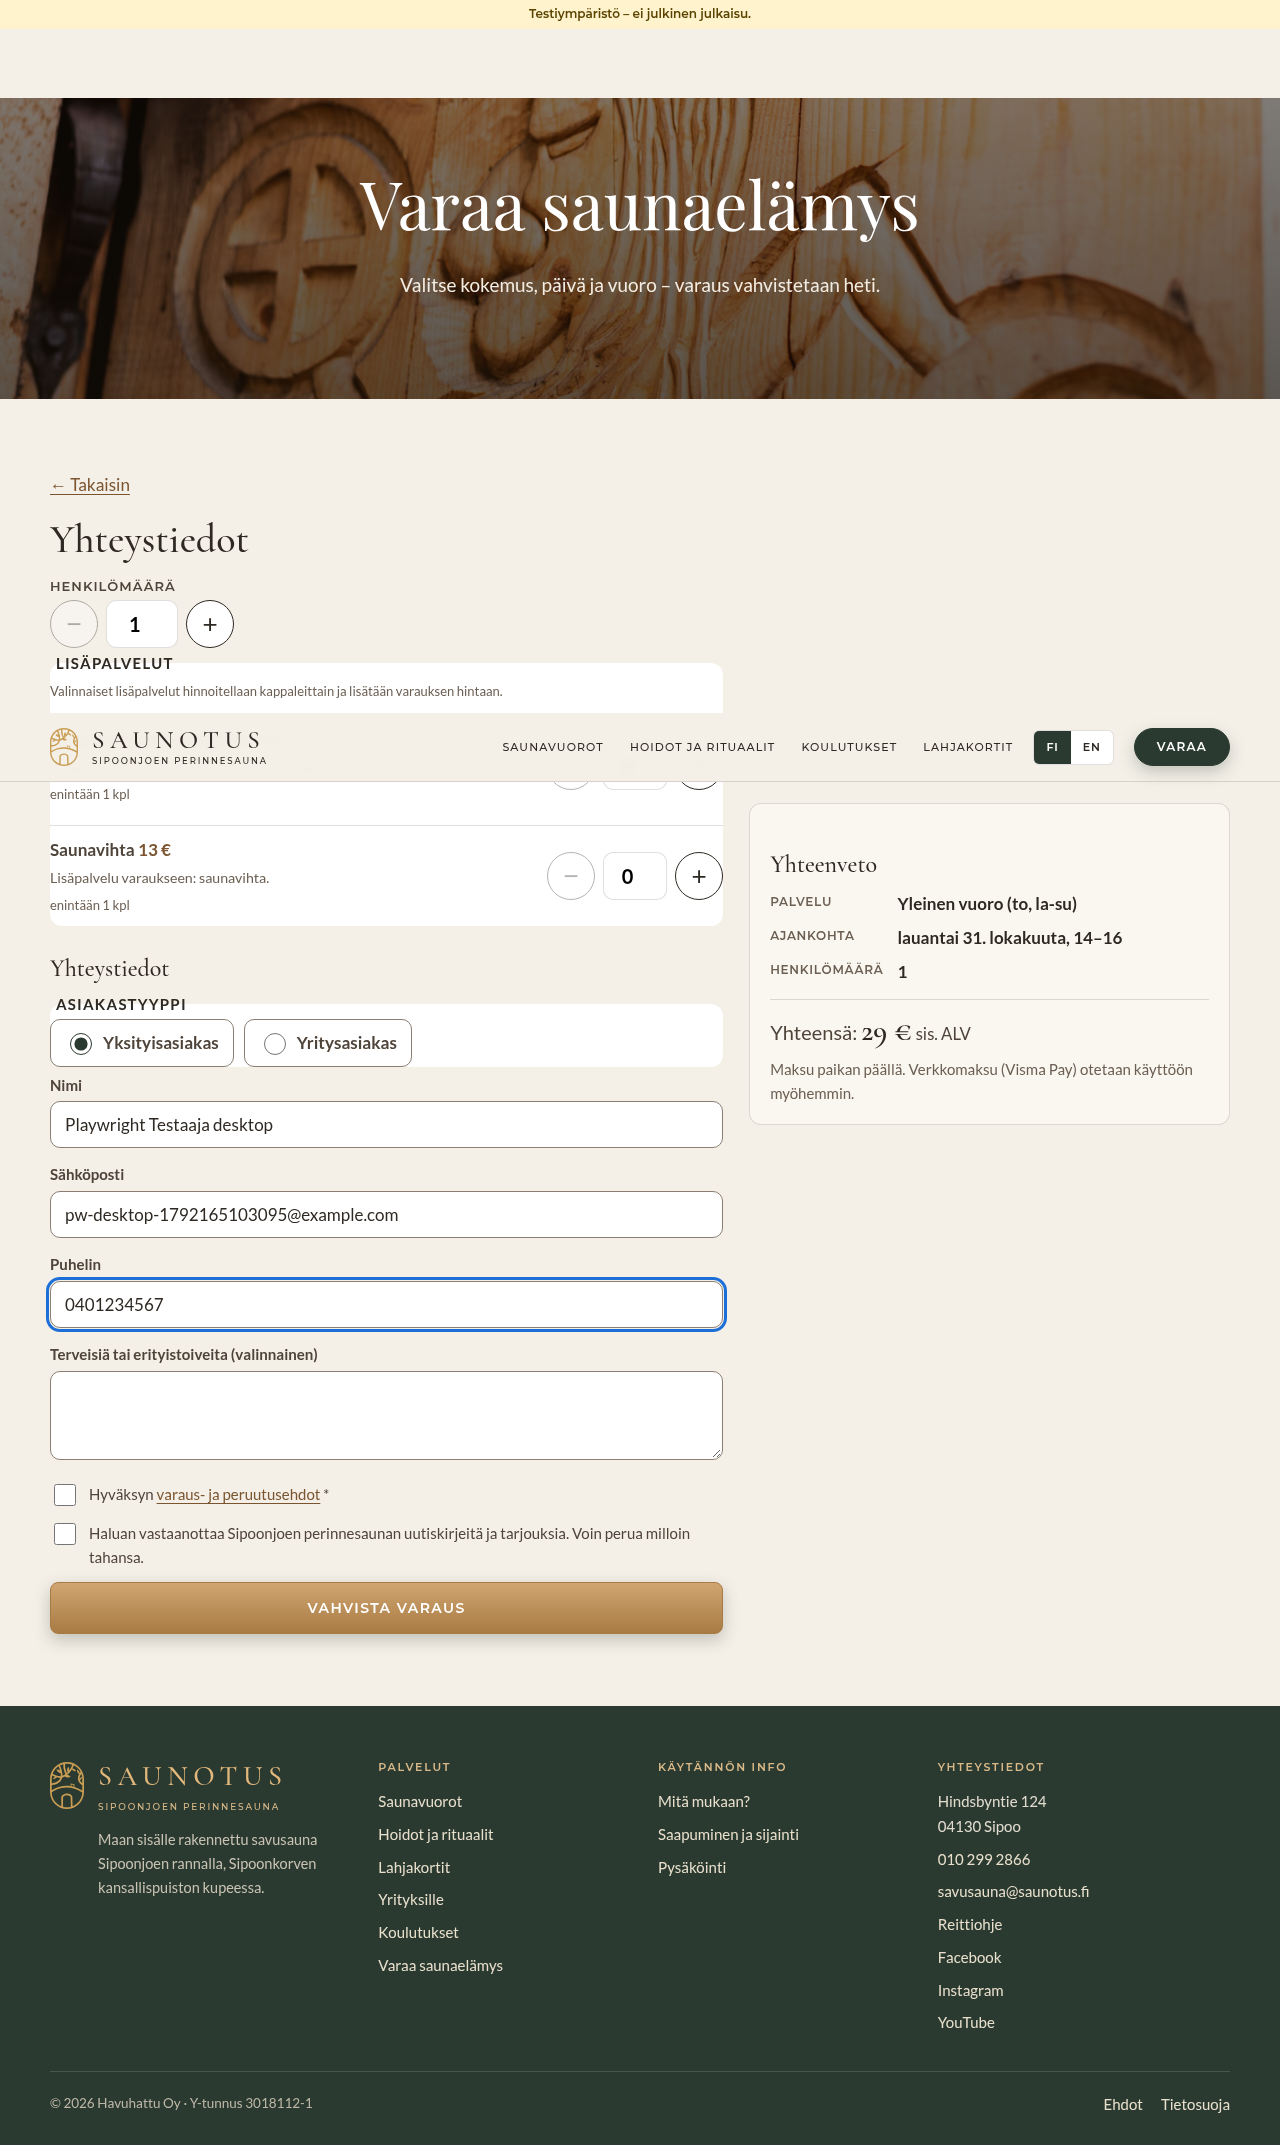
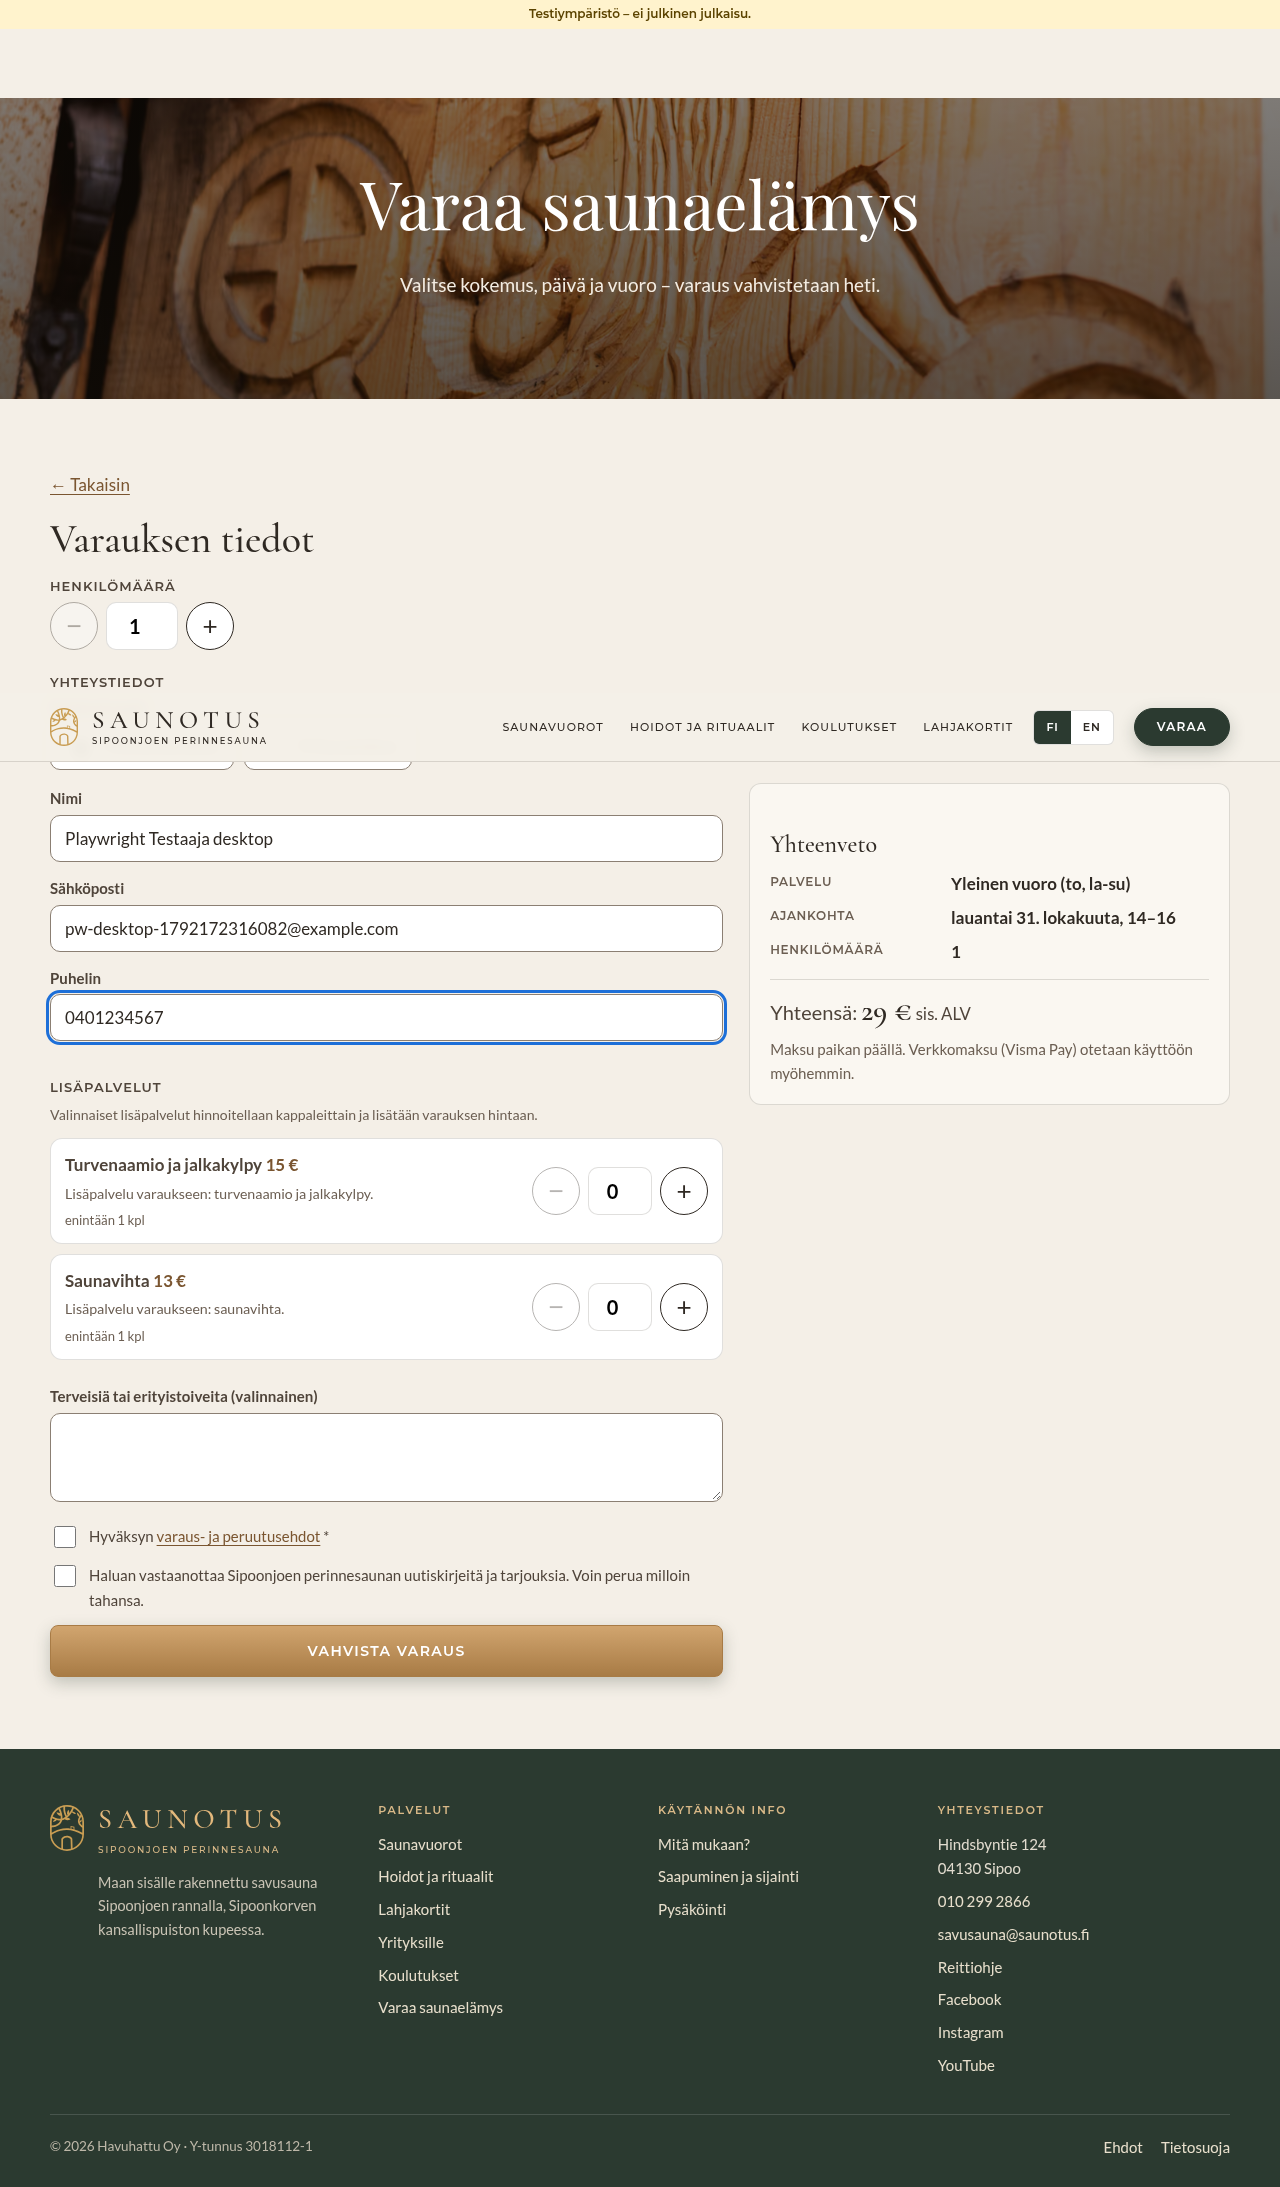
Kauppa: lisäpalveluiden asettelu ja osioiden järjestys mobiilissa

diff --git a/booking/shop/src/shop.css b/booking/shop/src/shop.css
@@ -59,8 +59,8 @@ button.bk-cell:hover{filter:brightness(.97)}
 /* lomake */
 .bk-checkout{display:grid;gap:26px;align-items:start}
 @media(min-width:900px){.bk-checkout{grid-template-columns:minmax(0,1.4fr) minmax(280px,1fr)}.bk-aside{position:sticky;top:90px}}
-.bk-form fieldset{border:0;margin:0 0 6px;padding:0}
-.bk-form legend{font:600 13px var(--label);text-transform:uppercase;letter-spacing:.08em;margin-bottom:6px;padding:0}
+.bk-form fieldset{border:0;margin:0 0 24px;padding:0;min-width:0}
+.bk-form legend{font:600 13px var(--label);text-transform:uppercase;letter-spacing:.08em;margin-bottom:8px;padding:0}
 .bk-stepper{display:inline-flex;align-items:center;gap:8px}
 .bk-step{width:48px;height:48px;border-radius:50%;border:1px solid var(--ink);background:#fff;font-size:26px;cursor:pointer;color:var(--ink)}
 .bk-step:disabled{opacity:.35;cursor:default}
@@ -75,8 +75,8 @@ button.bk-cell:hover{filter:brightness(.97)}
 .bk-form .btn:disabled{opacity:.6;cursor:default}
 .bk-aside{background:var(--card);border:1px solid var(--line);border-radius:var(--r);padding:18px 20px}
 .bk-aside h3{margin-top:0}
-.bk-sum{display:grid;grid-template-columns:auto 1fr;gap:6px 14px;margin:0 0 12px}
-.bk-sum dt{font:600 12px var(--label);text-transform:uppercase;letter-spacing:.06em;color:var(--muted);padding-top:4px}
+.bk-sum{display:grid;grid-template-columns:minmax(80px,38%) minmax(0,1fr);gap:6px 14px;margin:0 0 12px}
+.bk-sum dt{overflow-wrap:anywhere;font:600 12px var(--label);text-transform:uppercase;letter-spacing:.06em;color:var(--muted);padding-top:4px}
 .bk-sum dd{margin:0;font-weight:700;color:var(--ink)}
 .bk-totalrow{font-size:20px;border-top:1px solid var(--line);padding-top:12px;margin:0 0 8px}
 .bk-total{font:600 30px var(--head);color:var(--ink)}
@@ -91,20 +91,23 @@ button.bk-cell:hover{filter:brightness(.97)}
 @media(prefers-reduced-motion:reduce){*{scroll-behavior:auto!important;transition:none!important}}
 #booking-app [tabindex="-1"]:focus{outline:none}
 
-/* Migraatio 11: asiakastyyppi, yritystiedot, lisäpalvelut */
-.bk-kinds,.bk-company,.bk-addons{border:1px solid var(--line);border-radius:12px;padding:12px 14px;margin:0 0 16px;background:#fff}
-.bk-kinds legend,.bk-company legend,.bk-addons legend{font:700 15px var(--body);padding:0 6px;color:var(--ink)}
+/* Migraatio 11: asiakastyyppi, yritystiedot, lisäpalvelut (v9: samat osio-otsikot, leveys ja välit kuin muulla lomakkeella) */
+.bk-form .bk-kinds{margin:0 0 16px}
+.bk-form .bk-kinds>legend{font:700 15px var(--body);text-transform:none;letter-spacing:0;margin-bottom:6px}
+.bk-form fieldset.bk-company{border:1px solid var(--line);border-radius:12px;padding:14px;margin:0 0 18px;background:#fff}
+.bk-form .bk-company>legend{float:left;width:100%;margin:0 0 10px}
+.bk-form .bk-company>legend+*{clear:both}
 .bk-company[hidden]{display:none}
 .bk-kindrow{display:flex;gap:10px;flex-wrap:wrap}
 .bk-kind{display:inline-flex;align-items:center;gap:8px;min-height:48px;padding:0 14px;border:1px solid #8b7f73;border-radius:10px;background:#fff;font-weight:600;cursor:pointer}
 .bk-kind input{width:22px;height:22px;accent-color:var(--green)}
 .bk-company h4{margin:14px 0 8px;font-size:15px}
-.bk-row2{display:grid;grid-template-columns:120px 1fr;gap:10px}
+.bk-row2{display:grid;grid-template-columns:120px minmax(0,1fr);gap:10px}
 .bk-hint{display:block;color:var(--muted);font-size:13px;margin-top:3px}
+.bk-addons>.bk-hint{font-size:14px;margin:0 0 12px}
 .bk-addonlist{list-style:none;margin:0;padding:0;display:grid;gap:10px}
-.bk-addon{display:flex;gap:12px;align-items:center;justify-content:space-between;flex-wrap:wrap;padding:10px 0;border-top:1px solid var(--line)}
-.bk-addon:first-child{border-top:0}
-.bk-addon-info{flex:1 1 200px;display:grid;gap:2px}
+.bk-addon{display:flex;gap:12px;align-items:center;justify-content:space-between;flex-wrap:wrap;padding:12px 14px;border:1px solid var(--line);border-radius:12px;background:#fff}
+.bk-addon-info{flex:1 1 180px;min-width:0;display:grid;gap:2px}
 .bk-addon-info small{color:var(--muted)}
 .bk-addon-price{font-weight:700;color:var(--gold)}
 .bk-addon .bk-stepper input{width:64px}

diff --git a/booking/shop/src/shop.js b/booking/shop/src/shop.js
@@ -267,19 +267,20 @@ async function viewCheckout(ruleId, ds, productId) {
       msg.firstChild.setAttribute('tabindex', '-1'); msg.firstChild.focus();
     }
   } },
-    h('fieldset', {}, h('legend', { text: t.persons }), h('div', { class: 'bk-stepper' }, minus, num, plus)),
-    addonRows.length ? h('fieldset', { class: 'bk-addons' }, h('legend', { text: t.addonsTitle }), h('p', { class: 'bk-hint', text: t.addonsHint }), h('ul', { class: 'bk-addonlist' }, addonRows.map((r) => r.node))) : null,
-    h('h3', { text: t.details }),
-    h('fieldset', { class: 'bk-kinds' }, h('legend', { text: t.kindTitle }), h('div', { class: 'bk-kindrow' }, kindInputs)),
-    companyBox,
-    h('div', { class: 'bk-field' }, nameLabel, h('input', { id: 'name', name: 'name', required: true, autocomplete: 'name', maxlength: 120 })), field('email', t.email, { type: 'email', autocomplete: 'email', maxlength: 254 }),
-    field('phone', t.phone, { type: 'tel', autocomplete: 'tel', maxlength: 30 }),
+    h('fieldset', { class: 'bk-section' }, h('legend', { text: t.persons }), h('div', { class: 'bk-stepper' }, minus, num, plus)),
+    // Järjestys: henkilömäärä → asiakastyyppi ja yhteystiedot → lisäpalvelut → lisätiedot, ehdot ja varaus
+    h('fieldset', { class: 'bk-section bk-contact' }, h('legend', { text: t.details }),
+      h('fieldset', { class: 'bk-kinds' }, h('legend', { text: t.kindTitle }), h('div', { class: 'bk-kindrow' }, kindInputs)),
+      companyBox,
+      h('div', { class: 'bk-field' }, nameLabel, h('input', { id: 'name', name: 'name', required: true, autocomplete: 'name', maxlength: 120 })), field('email', t.email, { type: 'email', autocomplete: 'email', maxlength: 254 }),
+      field('phone', t.phone, { type: 'tel', autocomplete: 'tel', maxlength: 30 })),
+    addonRows.length ? h('fieldset', { class: 'bk-section bk-addons' }, h('legend', { text: t.addonsTitle }), h('p', { class: 'bk-hint', text: t.addonsHint }), h('ul', { class: 'bk-addonlist' }, addonRows.map((r) => r.node))) : null,
     h('div', { class: 'bk-field' }, h('label', { for: 'note', text: t.note }), h('textarea', { id: 'note', name: 'note', rows: 3, maxlength: 1000 })),
     h('div', { class: 'bk-check' }, terms, h('label', { for: 'bk-terms' }, t.acceptTerms + ' ', h('a', { href: S.termsHref, target: '_blank', rel: 'noopener', text: t.termsLink }), ' *')),
     h('div', { class: 'bk-check' }, consent, h('label', { for: 'bk-consent', text: t.consentMarketing })),
     msg, submit);
   form.addEventListener('input', () => msg.replaceChildren());   // vanha virheilmoitus pois kun käyttäjä korjaa tietoja
-  mount(h('p', {}, h('a', { href: bk(`/tuote/${p.slug}/${ds}`), text: t.back })), h('h2', { text: t.details }),
+  mount(h('p', {}, h('a', { href: bk(`/tuote/${p.slug}/${ds}`), text: t.back })), h('h2', { text: t.bookTitle }),
     h('div', { class: 'bk-checkout' }, form,
       h('aside', { class: 'bk-aside', 'aria-label': t.summary }, h('h3', { text: t.summary }), sumList,
         h('p', { class: 'bk-totalrow' }, t.total + ': ', total, ' ', h('small', { text: t.vatIncl })),

diff --git a/booking/shop/src/i18n.js b/booking/shop/src/i18n.js
@@ -3,7 +3,7 @@ export const T = {
   fi: {
     title: 'Varaa saunaelämys', lead: 'Valitse kokemus, päivä ja vuoro. Varaus vahvistetaan heti.',
     all: 'Kaikki', k_yleinen: 'Yleiset vuorot', k_yksityinen: 'Yksityisvuorot', k_muut: 'Muut',
-    choose: 'Valitse', pickDate: 'Valitse päivä', pickSlot: 'Valitse vuoro', details: 'Yhteystiedot', back: '← Takaisin', backList: '← Kaikki tuotteet',
+    choose: 'Valitse', pickDate: 'Valitse päivä', pickSlot: 'Valitse vuoro', details: 'Yhteystiedot', bookTitle: 'Varauksen tiedot', back: '← Takaisin', backList: '← Kaikki tuotteet',
     from: 'alk.', perPerson: '/ hlö', persons: 'Henkilömäärä', person: 'hlö', free: 'vapaana', full: 'Täynnä', unavailable: 'Ei varattavissa',
     unavailableHint: 'Päällekkäinen yksityisvuoro tai sulku', freeSpots: (n) => `${n} vapaana`, noSlots: 'Ei vapaita vuoroja valitulle päivälle.',
     noSlotsMonth: 'Tässä kuussa ei ole varattavia vuoroja.', loading: 'Ladataan…', loadError: 'Tietojen lataus epäonnistui. Yritä hetken kuluttua uudelleen tai soita 010 299 2866.',
@@ -40,7 +40,7 @@ export const T = {
   en: {
     title: 'Book a sauna experience', lead: 'Choose an experience, a day and a session. Your booking is confirmed instantly.',
     all: 'All', k_yleinen: 'Public sessions', k_yksityinen: 'Private sessions', k_muut: 'Other',
-    choose: 'Select', pickDate: 'Pick a date', pickSlot: 'Pick a session', details: 'Your details', back: '← Back', backList: '← All products',
+    choose: 'Select', pickDate: 'Pick a date', pickSlot: 'Pick a session', details: 'Your details', bookTitle: 'Booking details', back: '← Back', backList: '← All products',
     from: 'from', perPerson: '/ person', persons: 'Guests', person: 'guests', free: 'available', full: 'Full', unavailable: 'Not available',
     unavailableHint: 'Overlapping private session or closure', freeSpots: (n) => `${n} left`, noSlots: 'No available sessions for the selected day.',
     noSlotsMonth: 'No bookable sessions this month.', loading: 'Loading…', loadError: 'Could not load data. Please try again shortly or call +358 10 299 2866.',

diff --git a/booking/README.md b/booking/README.md
@@ -18,6 +18,7 @@ Ei palvelinkoodia, ei build-vaihetta selaimen koodille, ei kirjastoriippuvuuksia
 | `supabase/functions/admin-users/` | Edge Function (Deno, `verify_jwt = true`): käyttäjien kutsu, käytöstä poisto ja aktivointi. Validointilogiikka `logic.js` + testit |
 | `dev/` | Paikallinen demo: PostgREST-konfiguraatio, kehityspalvelin (mock-auth), demo-siemen |
 | `scripts/e2e-screenshots.mjs` | Playwright-savutesti + kuvakaappaukset + konsolivirhetarkistus |
+| `scripts/e2e-shop-layout.mjs` | Kaupan varauslomakkeen asettelutesti (360/390/430/1280 px, FI+EN, yksityinen+yritys): ei vaakavieritystä, osiot samassa linjassa, järjestys ja otsikot |
 | `docs/` | Maksurajapinta, Johku-tuonti, ristiriidat ja tulkinnat, Bottiavustuspyyntö, kuvakaappaukset |
 
 ## Arkkitehtuuri
@@ -222,6 +223,7 @@ BOOKING_SUPABASE_URL= BOOKING_ANON_KEY=demo node booking/shop/build.mjs
 node booking/dev/server.mjs        # http://localhost:4180/  ja  /admin/   (admin@demo.local / staff@demo.local, salasana: demo)
 # 4) kuvakaappaukset + konsolivirhetarkistus
 PW_DIR=/polku/node_modules node booking/scripts/e2e-screenshots.mjs
+PW_DIR=/polku/node_modules node booking/scripts/e2e-shop-layout.mjs   # kaupan lomakkeen asettelu eri leveyksillä
 ```
 
 Kuvakaappaukset: [`docs/screenshots/`](docs/screenshots/).
